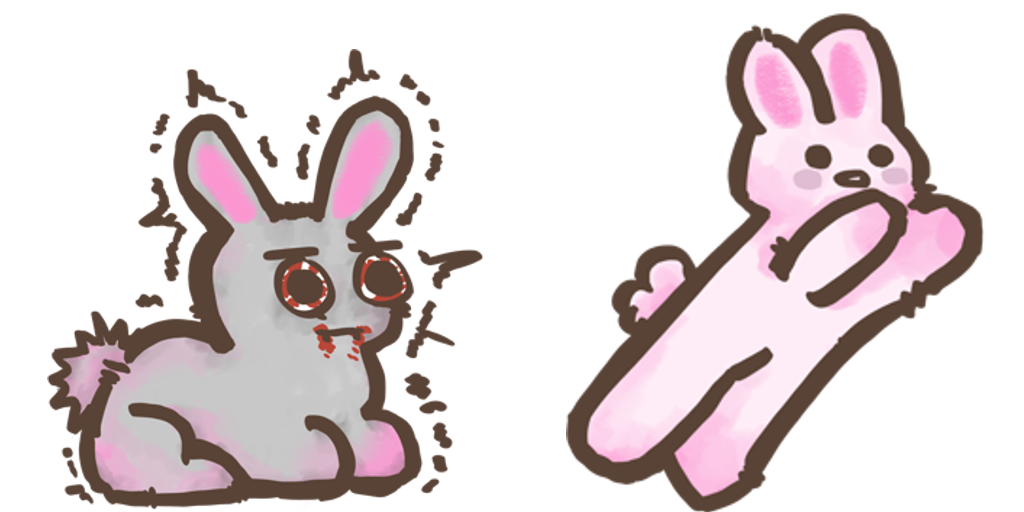
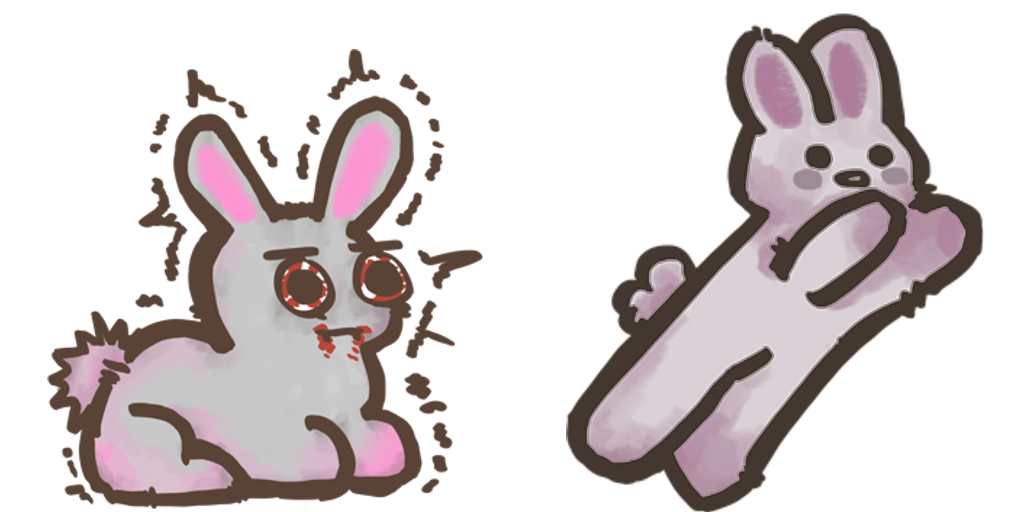
Added emotions

Changed region(s): [[0.5625, 0.0625, 0.9375, 0.9688]]

diff --git a/src/game/entities/Player.ts b/src/game/entities/Player.ts
@@ -4,6 +4,8 @@ export class Player {
   readonly sprite: Phaser.Physics.Arcade.Sprite;
   private readonly visual: Phaser.GameObjects.Sprite;
   private readonly scene: Phaser.Scene;
+  private readonly standAnimationKey: string;
+  private readonly jumpAnimationKey: string;
   private cursors: Phaser.Types.Input.Keyboard.CursorKeys | null;
   private readonly keyW: Phaser.Input.Keyboard.Key | null;
   private readonly keyA: Phaser.Input.Keyboard.Key | null;
@@ -26,20 +28,30 @@ export class Player {
   private extraBoostUsed = false;
   private boostStretchTween: Phaser.Tweens.Tween | undefined;
 
-  constructor(scene: Phaser.Scene, x: number, y: number) {
+  constructor(
+    scene: Phaser.Scene,
+    x: number,
+    y: number,
+    textureKey = "bun",
+    standAnimationKey = "bun-stand",
+    jumpAnimationKey = "bun-jump",
+  ) {
     this.scene = scene;
-    this.sprite = scene.physics.add.sprite(x, y, "bun");
+    this.standAnimationKey = standAnimationKey;
+    this.jumpAnimationKey = jumpAnimationKey;
+
+    this.sprite = scene.physics.add.sprite(x, y, textureKey);
     this.sprite.setCollideWorldBounds(true);
     this.sprite.setOrigin(0.5, 0.5);
     const body = this.sprite.body as Phaser.Physics.Arcade.Body;
     body.setSize(34, 34, true);
     this.sprite.setVisible(false);
 
-    this.visual = scene.add.sprite(x, y, "bun", 0);
+    this.visual = scene.add.sprite(x, y, textureKey, 0);
     this.visual.setOrigin(0.5, 0.5);
     this.visual.setScale(this.baseVisualScale, this.baseVisualScale);
     this.visual.setDepth(2);
-    this.visual.play("bun-stand");
+    this.visual.play(this.standAnimationKey);
     this.syncVisual(0);
 
     this.cursors = scene.input.keyboard?.createCursorKeys() ?? null;
@@ -80,15 +92,6 @@ export class Player {
       body.center.x + this.visualOffsetX,
       body.center.y + this.visualOffsetY + bobOffsetY,
     );
-  }
-
-  setDangerMode(enabled: boolean) {
-    if (enabled) {
-      this.visual.setTint(0xff4d4d);
-      return;
-    }
-
-    this.visual.clearTint();
   }
 
   update() {
@@ -135,7 +138,7 @@ export class Player {
         this.sprite.setVelocityY(0);
       }
 
-      this.visual.play("bun-stand", true);
+      this.visual.play(this.standAnimationKey, true);
       this.syncVisual(0);
       return;
     }
@@ -167,8 +170,8 @@ export class Player {
 
     // Animation state machine: jump while airborne, run while moving on ground, stand otherwise.
     if (!isGrounded) {
-      if (this.visual.anims.currentAnim?.key !== "bun-jump") {
-        this.visual.play("bun-jump", true);
+      if (this.visual.anims.currentAnim?.key !== this.jumpAnimationKey) {
+        this.visual.play(this.jumpAnimationKey, true);
       }
       this.syncVisual(0);
       return;
@@ -181,14 +184,14 @@ export class Player {
       this.walkBobTime += dt * 28;
       const bobOffsetY = -Math.abs(Math.sin(this.walkBobTime) * 12);
       this.syncVisual(bobOffsetY);
-      if (this.visual.anims.currentAnim?.key !== "bun-stand") {
-        this.visual.play("bun-stand", true);
+      if (this.visual.anims.currentAnim?.key !== this.standAnimationKey) {
+        this.visual.play(this.standAnimationKey, true);
       }
-    } else if (this.visual.anims.currentAnim?.key !== "bun-stand") {
+    } else if (this.visual.anims.currentAnim?.key !== this.standAnimationKey) {
       this.walkBobTime = 0;
       this.visual.setScale(this.baseVisualScale, this.baseVisualScale);
       this.syncVisual(0);
-      this.visual.play("bun-stand", true);
+      this.visual.play(this.standAnimationKey, true);
     } else {
       this.walkBobTime = 0;
       this.visual.setScale(this.baseVisualScale, this.baseVisualScale);

diff --git a/src/game/scenes/PlatformerScene.ts b/src/game/scenes/PlatformerScene.ts
@@ -63,11 +63,25 @@ export function createPlatformerScene(
         frameWidth: 512,
         frameHeight: 512,
       });
+      this.load.spritesheet("bun-tweaking", "/bun_tweaking.png", {
+        frameWidth: 512,
+        frameHeight: 512,
+      });
+      this.load.spritesheet("bun-lowkirkenuinely", "/bun_lowkirkenuinely.png", {
+        frameWidth: 512,
+        frameHeight: 512,
+      });
     },
     create(this: Phaser.Scene) {
       const overdueCount = readOverdueCountFromStorage();
-      const hasOverdueTasks = overdueCount >= 1;
       const isBackroomsOverdueMode = overdueCount >= 3;
+      const playerTextureKey = isBackroomsOverdueMode
+        ? "bun-lowkirkenuinely"
+        : overdueCount >= 1
+          ? "bun-tweaking"
+          : "bun";
+      const standAnimKey = `${playerTextureKey}-stand`;
+      const jumpAnimKey = `${playerTextureKey}-jump`;
       const handleResize = () => resizeBackground(this);
 
       background = this.add.image(
@@ -81,19 +95,19 @@ export function createPlatformerScene(
       this.cameras.main.setBackgroundColor("#f5e8cc");
 
       // Create player animations
-      if (!this.anims.exists("bun-stand")) {
+      if (!this.anims.exists(standAnimKey)) {
         this.anims.create({
-          key: "bun-stand",
-          frames: [{ key: "bun", frame: 0 }],
+          key: standAnimKey,
+          frames: [{ key: playerTextureKey, frame: 0 }],
           frameRate: 10,
           repeat: -1,
         });
       }
 
-      if (!this.anims.exists("bun-jump")) {
+      if (!this.anims.exists(jumpAnimKey)) {
         this.anims.create({
-          key: "bun-jump",
-          frames: [{ key: "bun", frame: 1 }],
+          key: jumpAnimKey,
+          frames: [{ key: playerTextureKey, frame: 1 }],
           frameRate: 10,
           repeat: -1,
         });
@@ -116,8 +130,14 @@ export function createPlatformerScene(
       });
       setupPhysicsWorld(this, world.worldWidthPx, world.worldHeightPx);
 
-      player = new Player(this, world.spawnPoint.x, world.spawnPoint.y);
-      player.setDangerMode(hasOverdueTasks);
+      player = new Player(
+        this,
+        world.spawnPoint.x,
+        world.spawnPoint.y,
+        playerTextureKey,
+        standAnimKey,
+        jumpAnimKey,
+      );
 
       this.physics.add.collider(player.sprite, world.solidTiles);
 

diff --git a/src/components/BunnyPanel.tsx b/src/components/BunnyPanel.tsx
@@ -5,6 +5,8 @@ import { usePathname } from "next/navigation";
 import { PiCarrotDuotone } from "react-icons/pi";
 import { useFlipTo, useIsFlipping } from "./JournalShell";
 import { ScrapbookNotes } from "./ScrapbookNotes";
+import { isOverdue } from "@/lib/date";
+import { useTodos } from "@/store/todos";
 import { useUserStats } from "@/hooks/useUserStats";
 
 const MAX_PLAYS = 5;
@@ -207,7 +209,14 @@ export function BunnyPanel() {
   const pathname = usePathname();
   const onGame = pathname === "/game";
   const isFlipping = useIsFlipping();
+  const todos = useTodos((s) => s.todos);
   const { playsRemaining, level, caffeineProgress, caffeineToNextLevel } = useUserStats();
+  const overdueCount = todos.filter(isOverdue).length;
+  const bunnyImageSrc = overdueCount >= 3
+    ? "/bunny_lowkirkenuinely.png"
+    : overdueCount >= 1
+      ? "/bunny_tweaking.png"
+      : "/bunny.png";
 
   const [notesShown, setNotesShown] = useState(true);
 
@@ -262,9 +271,9 @@ export function BunnyPanel() {
         }
       >
         <img
-          src="/bunny.png"
+          src={bunnyImageSrc}
           alt="Bunny"
-          className="w-48 md:w-56 lg:w-64"
+          className="w-64 md:w-72 lg:w-80"
           style={{}}
         />
       </div>
